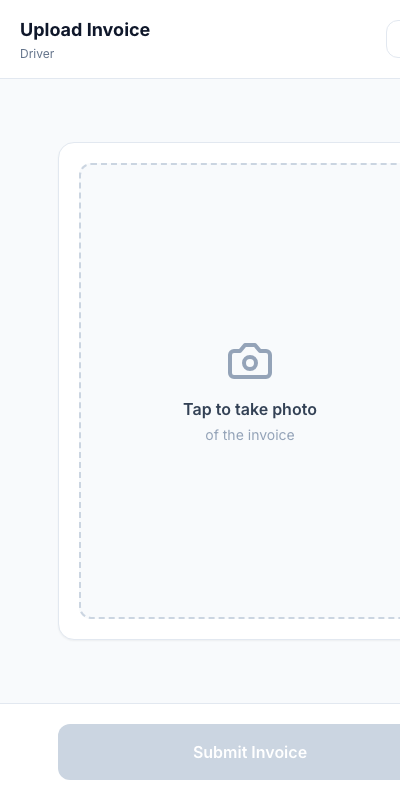
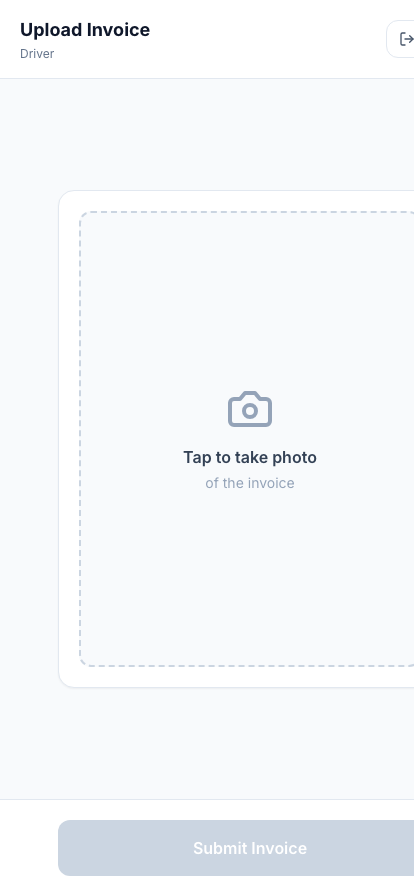
feat(landing): replace synthetic phone mockup with REAL driver-upload screenshot
Page now has two genuine product screenshots, both captured from
publicly accessible pages on app.traxn.in via headless Chrome —
zero customer data, zero auth required:

1. Desktop login (added previously): app-login.png, 1280×800.
   In the "Not a mockup. This is the app." section between Trust Strip
   and Modules, framed inside faux browser chrome.

2. Mobile Driver Upload Portal (NEW): app-driver.png, 414×896.
   Drops into the existing phone-frame card in See Inside Row 3,
   replacing the hand-built synthetic mobile UI. Frame stays, content
   is now the actual app's empty-state "Tap to take photo" screen
   with the "Driver" sub-header and the cyan Submit Invoice CTA.

Net: visitors now see actual product UI in TWO places on the landing,
not just synthetic recreations. Driver-upload was reachable without
auth (it's the standalone portal drivers use, no login admin), so
the screenshot shows the real screen exactly as a driver would.

For the remaining auth-gated screens (Dashboard, Trip Management,
Invoice/Bilty PDF previews) — the owner can drop those into
/assets/screenshots/ and I'll wire them into a full product gallery
section in one commit.

diff --git a/cargo/index.html b/cargo/index.html
@@ -618,43 +618,14 @@
           <div class="lg:col-span-5">
             <div class="relative mx-auto" style="max-width:280px">
               <div class="bg-navy-900 rounded-[2.5rem] p-3 shadow-ring">
-                <div class="bg-white rounded-[2rem] overflow-hidden" style="aspect-ratio: 9/19;">
-                  <!-- status bar -->
-                  <div class="bg-navy-900 text-white px-5 py-1.5 text-[10px] font-medium flex justify-between items-center">
-                    <span class="num">9:41</span>
-                    <span class="flex items-center gap-1"><svg viewBox="0 0 24 24" class="w-2.5 h-2.5" fill="currentColor"><path d="M2 17h2v3H2zm4-3h2v6H6zm4-3h2v9h-2zm4-3h2v12h-2zm4-3h2v15h-2z"/></svg> <span class="text-[9px]">●●●</span></span>
-                  </div>
-                  <!-- App header -->
-                  <div class="bg-navy-900 text-white px-4 pb-3">
-                    <div class="text-[10px] text-white/55">Driver portal</div>
-                    <div class="font-display font-bold text-base">Hello, Manish</div>
-                    <div class="text-[10px] text-white/55 mt-0.5">WB-39C/XXXX</div>
-                  </div>
-                  <!-- Body -->
-                  <div class="px-4 py-4 space-y-3">
-                    <div class="text-[9px] uppercase tracking-wider text-navy-900/45 font-bold">Pick a trip</div>
-                    <div class="rounded-lg border-2 border-sky-500 bg-sky-500/5 p-3">
-                      <div class="text-sm font-bold text-navy-900">30 May · Alloy Industries</div>
-                      <div class="text-[10px] text-navy-900/55 mt-0.5">Jamuria → Kamalpur</div>
-                      <div class="text-[10px] text-navy-900/55">88.6 T · ₹38,500</div>
-                    </div>
-                    <div class="rounded-lg border border-navy-900/10 p-3">
-                      <div class="text-sm font-semibold text-navy-900/80">29 May · Summit Ferro</div>
-                      <div class="text-[10px] text-navy-900/50 mt-0.5">Radhamadhabpur → Burnpur</div>
-                    </div>
-                    <button class="w-full bg-sky-500 text-white rounded-xl py-3 font-bold text-sm shadow-cta flex items-center justify-center gap-2">
-                      <svg viewBox="0 0 24 24" class="w-4 h-4" fill="none" stroke="currentColor" stroke-width="2.5" stroke-linecap="round" stroke-linejoin="round"><rect x="3" y="6" width="18" height="14" rx="2"/><circle cx="12" cy="13" r="3"/><path d="M9 6V4h6v2"/></svg>
-                      Upload Bilty Photo
-                    </button>
-                    <div class="rounded-lg bg-emerald-50 border border-emerald-200 px-3 py-2.5 flex items-center gap-2">
-                      <svg viewBox="0 0 24 24" class="w-4 h-4 text-emerald-600 shrink-0" fill="none" stroke="currentColor" stroke-width="2.5" stroke-linecap="round" stroke-linejoin="round"><path d="M20 6 9 17l-5-5"/></svg>
-                      <div>
-                        <div class="text-[11px] font-bold text-emerald-700">Uploaded · 2 min ago</div>
-                        <div class="text-[10px] text-emerald-700/70">WB-39C-3006.jpg</div>
-                      </div>
-                    </div>
-                  </div>
-                </div>
+                <!-- REAL screenshot of app.traxn.in/driver-upload framed as a phone -->
+                <img
+                  src="/assets/screenshots/app-driver.png"
+                  alt="TraxnCargo Driver Upload Portal — empty-state screen for a driver to tap to take a photo of the invoice"
+                  class="block w-full h-auto rounded-[2rem] bg-white"
+                  width="414" height="896"
+                  loading="lazy"
+                />
               </div>
               <!-- Floating badge -->
               <div class="absolute -right-4 -top-3 bg-white rounded-full px-3 py-1 shadow-ring text-[10px] font-bold text-sky-600 border border-sky-500/30">